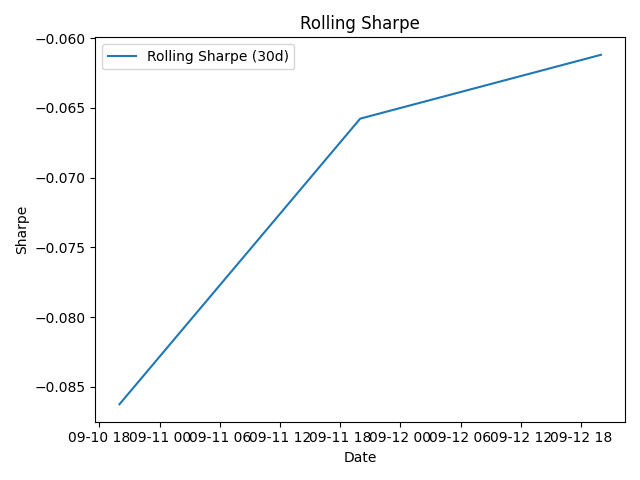
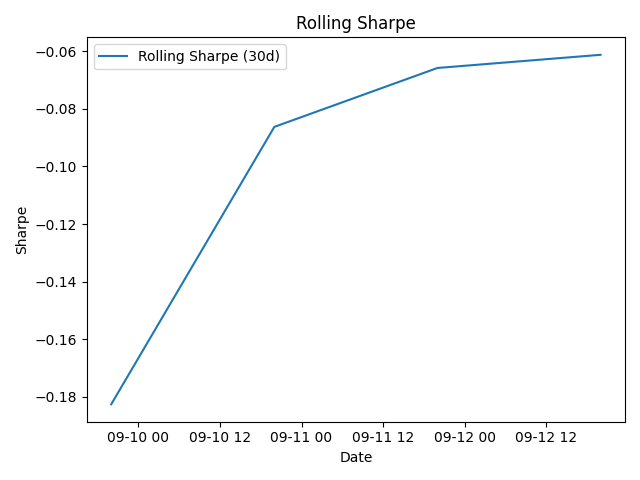
Got rolling-sharpe graph to work

diff --git a/generate_stats.py b/generate_stats.py
@@ -346,6 +346,8 @@ def plot_rolling_sharpe(daily_returns: pd.Series, window=ROLLING_SHARPE_WINDOW):
     roll = daily_returns.rolling(window).mean() / daily_returns.rolling(window).std(
         ddof=0
     )
+    if roll.dropna().empty:
+        return None
     plt.figure()
     plt.plot(roll.index, roll.values, label=f"Rolling Sharpe ({window}d)")
     plt.title("Rolling Sharpe")
@@ -442,7 +444,9 @@ def main():
         print("\nNo portfolio history returned; cannot compute lifetime stats.")
         return
 
-    daily_returns = equity.pct_change().replace([np.inf, -np.inf], np.nan)
+    # daily_returns = equity.pct_change().replace([np.inf, -np.inf], np.nan)
+    daily_returns = equity.pct_change().replace([np.inf, -np.inf], np.nan).fillna(0)
+
     monthly = monthly_table(daily_returns)
     if not monthly.empty:
         monthly.to_csv(os.path.join(REPORT_DIR, "monthly_returns_heatmap.csv"))
